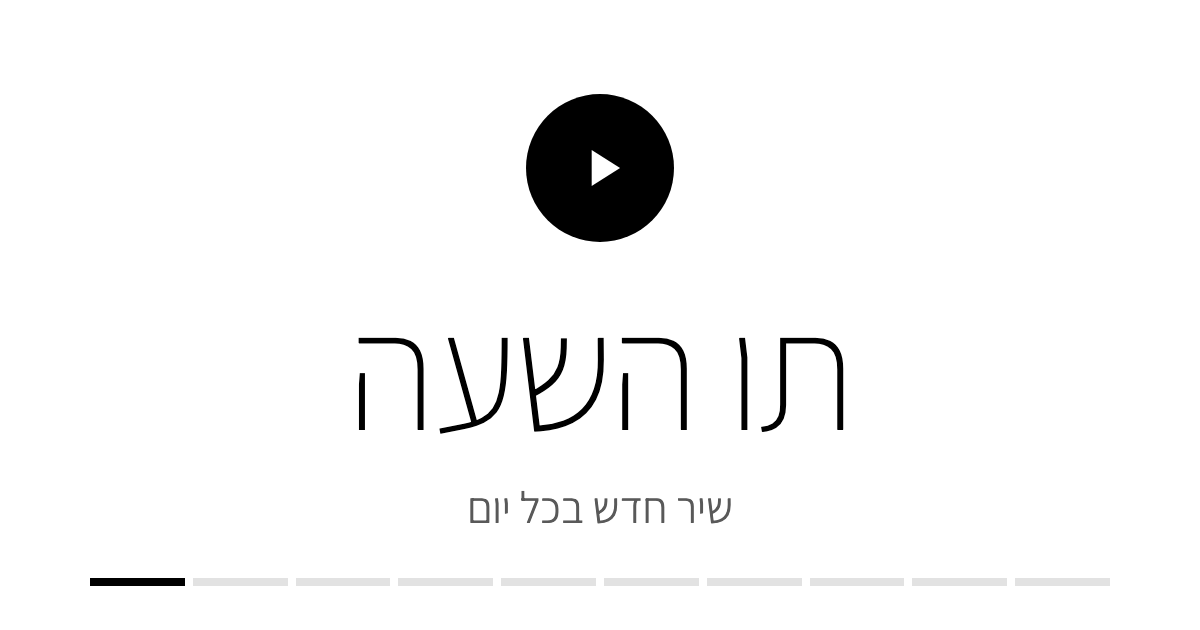
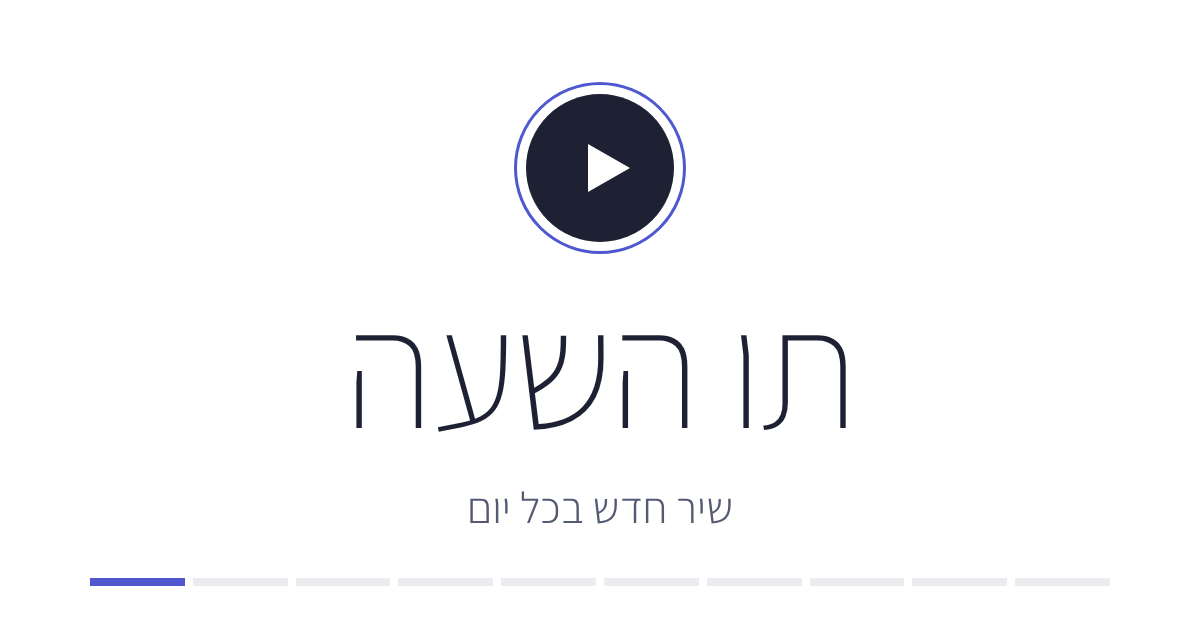
Switch to a white and indigo palette
Cool blue-gray neutrals with indigo (#5058d0) as the only accent, used for the progress
fill, the pulse and loading rings, the result card border, correct squares, the check mark
on a correct guess, link underlines, the focus border of the guess box and won days in the
calendar. Everything else is white, outlined buttons and the grays. Contrast on white:
ink 15.9:1, muted 6.8:1, mid 3.2:1 (borders), accent 5.8:1. The colours stay in the :root
tokens, now named --accent and --accent-l instead of after a hue. The share image and
theme colour follow.

Claude-Session: https://claude.ai/code/session_01AoHjZZDDJWhZrEPR356cAG

diff --git a/index.html b/index.html
@@ -23,17 +23,22 @@
 <link href="https://fonts.googleapis.com/css2?family=Assistant:wght@200;300;400;600&display=swap" rel="stylesheet">
 <style>
 
-  /* Monochrome and quiet: flat black and white, hairlines, light type, square corners. State is shown with
-     fill, outline and icons rather than colour. White only, no dark mode. */
+  /* Quiet and flat: white, cool blue-grays, hairlines, light type, square corners. Indigo is only an accent, in a few
+     small places: progress, rings, correct answers, links and focus. State is still shown with fill, outline and icons
+     as well as colour. Light only, no dark mode.
+     Contrast on white: --ink 15.9:1, --muted 6.8:1, --mid 3.2:1 (borders), --accent 5.8:1. --accent is used for fills,
+     rings and lines; --accent-l is the light tint for marks on a dark (--ink) row. */
   :root {
     color-scheme: light;
     --paper: #ffffff;
-    --ink: #000000;
-    --muted: #595959;
-    --line: #e2e2e2;
-    --soft: #f3f3f3;
-    --soft-2: #e8e8e8;
-    --mid: #bdbdbd;
+    --ink: #1e2133;
+    --muted: #555a74;
+    --line: #e5e6ec;
+    --soft: #f6f6f8;
+    --soft-2: #ebecf0;
+    --mid: #8a8fa8;
+    --accent: #5058d0;
+    --accent-l: #c4c9f6;
   }
   * { box-sizing: border-box; }
   html { -webkit-text-size-adjust: 100%; }
@@ -100,12 +105,12 @@
   .play[data-state="playing"] .i-pause { display: block; }
   .play[data-state="playing"]::after {
     content: ""; position: absolute; inset: -8px; border-radius: 50%;
-    border: 2px solid var(--ink); opacity: 0;
+    border: 2px solid var(--accent); opacity: 0;
     animation: pulse 1.2s ease-out infinite;
   }
   .play[data-state="loading"]::after {
     content: ""; position: absolute; inset: -8px; border-radius: 50%;
-    border: 2px solid transparent; border-top-color: var(--ink);
+    border: 2px solid transparent; border-top-color: var(--accent);
     animation: spin .8s linear infinite;
   }
   @keyframes pulse { from { transform: scale(0.9); opacity: .6; } to { transform: scale(1.25); opacity: 0; } }
@@ -119,8 +124,8 @@
     overflow: hidden;
   }
   .tl-unlocked, .tl-played { position: absolute; inset-block: 0; left: 0; }
-  .tl-unlocked { background: var(--mid); transition: width .35s ease; }
-  .tl-played { background: var(--ink); }
+  .tl-unlocked { background: var(--mid); opacity: .5; transition: width .35s ease; }
+  .tl-played { background: var(--accent); }
   .tl-tick { position: absolute; inset-block: 0; width: 2px; background: var(--paper); }
   .tl-marks { position: relative; height: 20px; margin-top: 8px; color: var(--muted); font-size: 12px; font-variant-numeric: tabular-nums; }
   .tl-marks span { position: absolute; transform: translateX(-50%); }
@@ -149,7 +154,7 @@
   .attempt.skip .txt { color: var(--muted); }
   .attempt.win { background: var(--ink); border-color: var(--ink); color: var(--paper); }
   .attempt.win .badge { background: var(--paper); color: var(--ink); }
-  .attempt.win::after { content: "\2713"; font-weight: 400; }
+  .attempt.win::after { content: "\2713"; font-weight: 400; color: var(--accent-l); }
 
   /* guess area */
   .guess { margin-top: 20px; }
@@ -162,13 +167,13 @@
     font-size: 17px;
   }
   .combo input::placeholder { color: var(--muted); }
-  .combo input:focus { outline: none; border-color: var(--ink); box-shadow: 0 0 0 1px var(--ink); }
+  .combo input:focus { outline: none; border-color: var(--accent); box-shadow: 0 0 0 1px var(--accent); }
   .list {
     position: absolute; z-index: 5; inset-inline: 0; top: calc(100% + 6px);
     margin: 0; padding: 0; list-style: none;
     background: var(--paper);
     border: 1px solid var(--line);
-    box-shadow: 0 10px 28px rgba(0, 0, 0, .1);
+    box-shadow: 0 10px 28px rgba(46, 42, 48, .12);
     max-height: 320px; overflow-y: auto;
   }
   .list[hidden] { display: none; }
@@ -196,7 +201,7 @@
   /* result: a plain card with a hairline border, so the end of the game stands out without turning the page black */
   .result {
     margin-top: 20px; padding: 24px 20px;
-    border: 1px solid var(--ink);
+    border: 1px solid var(--accent);
     text-align: center;
   }
   .result[hidden] { display: none; }
@@ -208,7 +213,7 @@
     position: relative; flex: 1 1 0; max-width: 28px; aspect-ratio: 1;
     border: 1px solid var(--ink); opacity: .25;
   }
-  .squares i.win { background: var(--ink); opacity: 1; }
+  .squares i.win { background: var(--accent); border-color: var(--accent); opacity: 1; }
   .squares i.skip { background: var(--ink); opacity: .3; }
   .squares i.bad { border-width: 2px; opacity: 1; }
   .squares i.bad::before, .squares i.bad::after {
@@ -279,12 +284,12 @@
   .link {
     display: inline-flex; align-items: center; gap: 6px;
     padding: 0; border: 0; background: none; color: var(--ink);
-    font: inherit; text-decoration: underline; text-underline-offset: 3px; white-space: nowrap; cursor: pointer;
+    font: inherit; text-decoration: underline; text-decoration-color: var(--accent); text-underline-offset: 3px; white-space: nowrap; cursor: pointer;
   }
   .link[hidden] { display: none; }
   .link svg { width: 16px; height: 16px; fill: none; stroke: currentColor; stroke-width: 1.5; }
   dialog.cal { width: min(92vw, 380px); padding: 0; border: 1px solid var(--ink); background: var(--paper); color: var(--ink); }
-  dialog.cal::backdrop { background: rgba(0, 0, 0, .45); }
+  dialog.cal::backdrop { background: rgba(46, 42, 48, .45); }
   .cal-body { padding: 20px 18px 18px; }
   .cal-head { display: flex; align-items: center; justify-content: space-between; margin-bottom: 16px; }
   .cal-head h2 { margin: 0; font-size: 22px; font-weight: 300; }
@@ -302,7 +307,7 @@
   .cal-day:disabled { border-color: transparent; color: var(--mid); cursor: default; }
   .cal-day.today { border-color: var(--ink); }
   .cal-day.current { outline: 2px solid var(--ink); outline-offset: 2px; }
-  .cal-day.won { border-color: var(--ink); box-shadow: inset 0 0 0 1px var(--ink); }
+  .cal-day.won { border-color: var(--accent); box-shadow: inset 0 0 0 1px var(--accent); background: var(--soft); }
   .cal-day.lost { color: var(--muted); text-decoration: line-through; }
   .cal-day.going::after { content: ""; position: absolute; left: 50%; bottom: 5px; width: 4px; height: 4px; margin-left: -2px; background: currentColor; }
   .cal-key { display: flex; flex-wrap: wrap; gap: 8px 10px; margin: 16px 0; color: var(--muted); font-size: 13px; }
